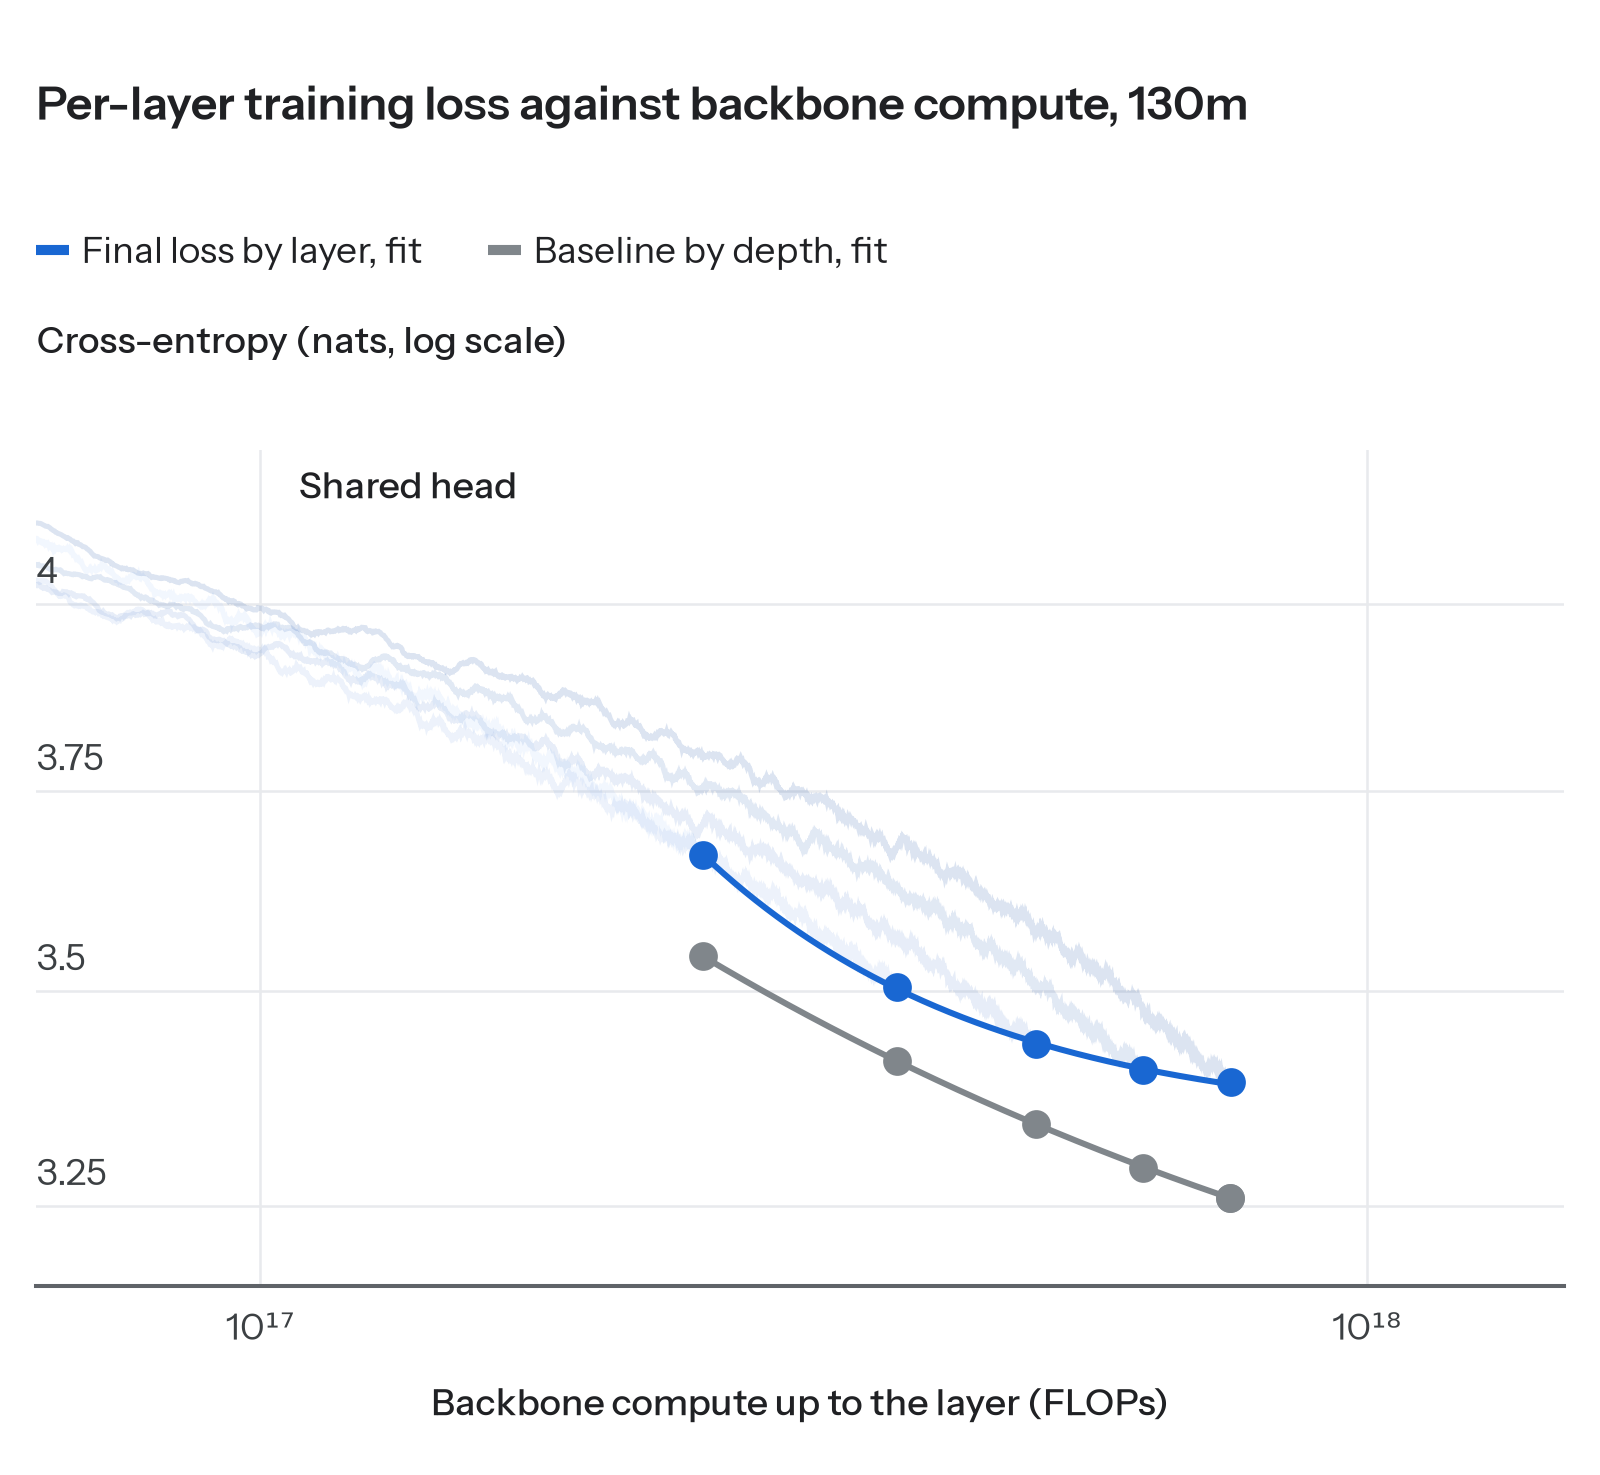
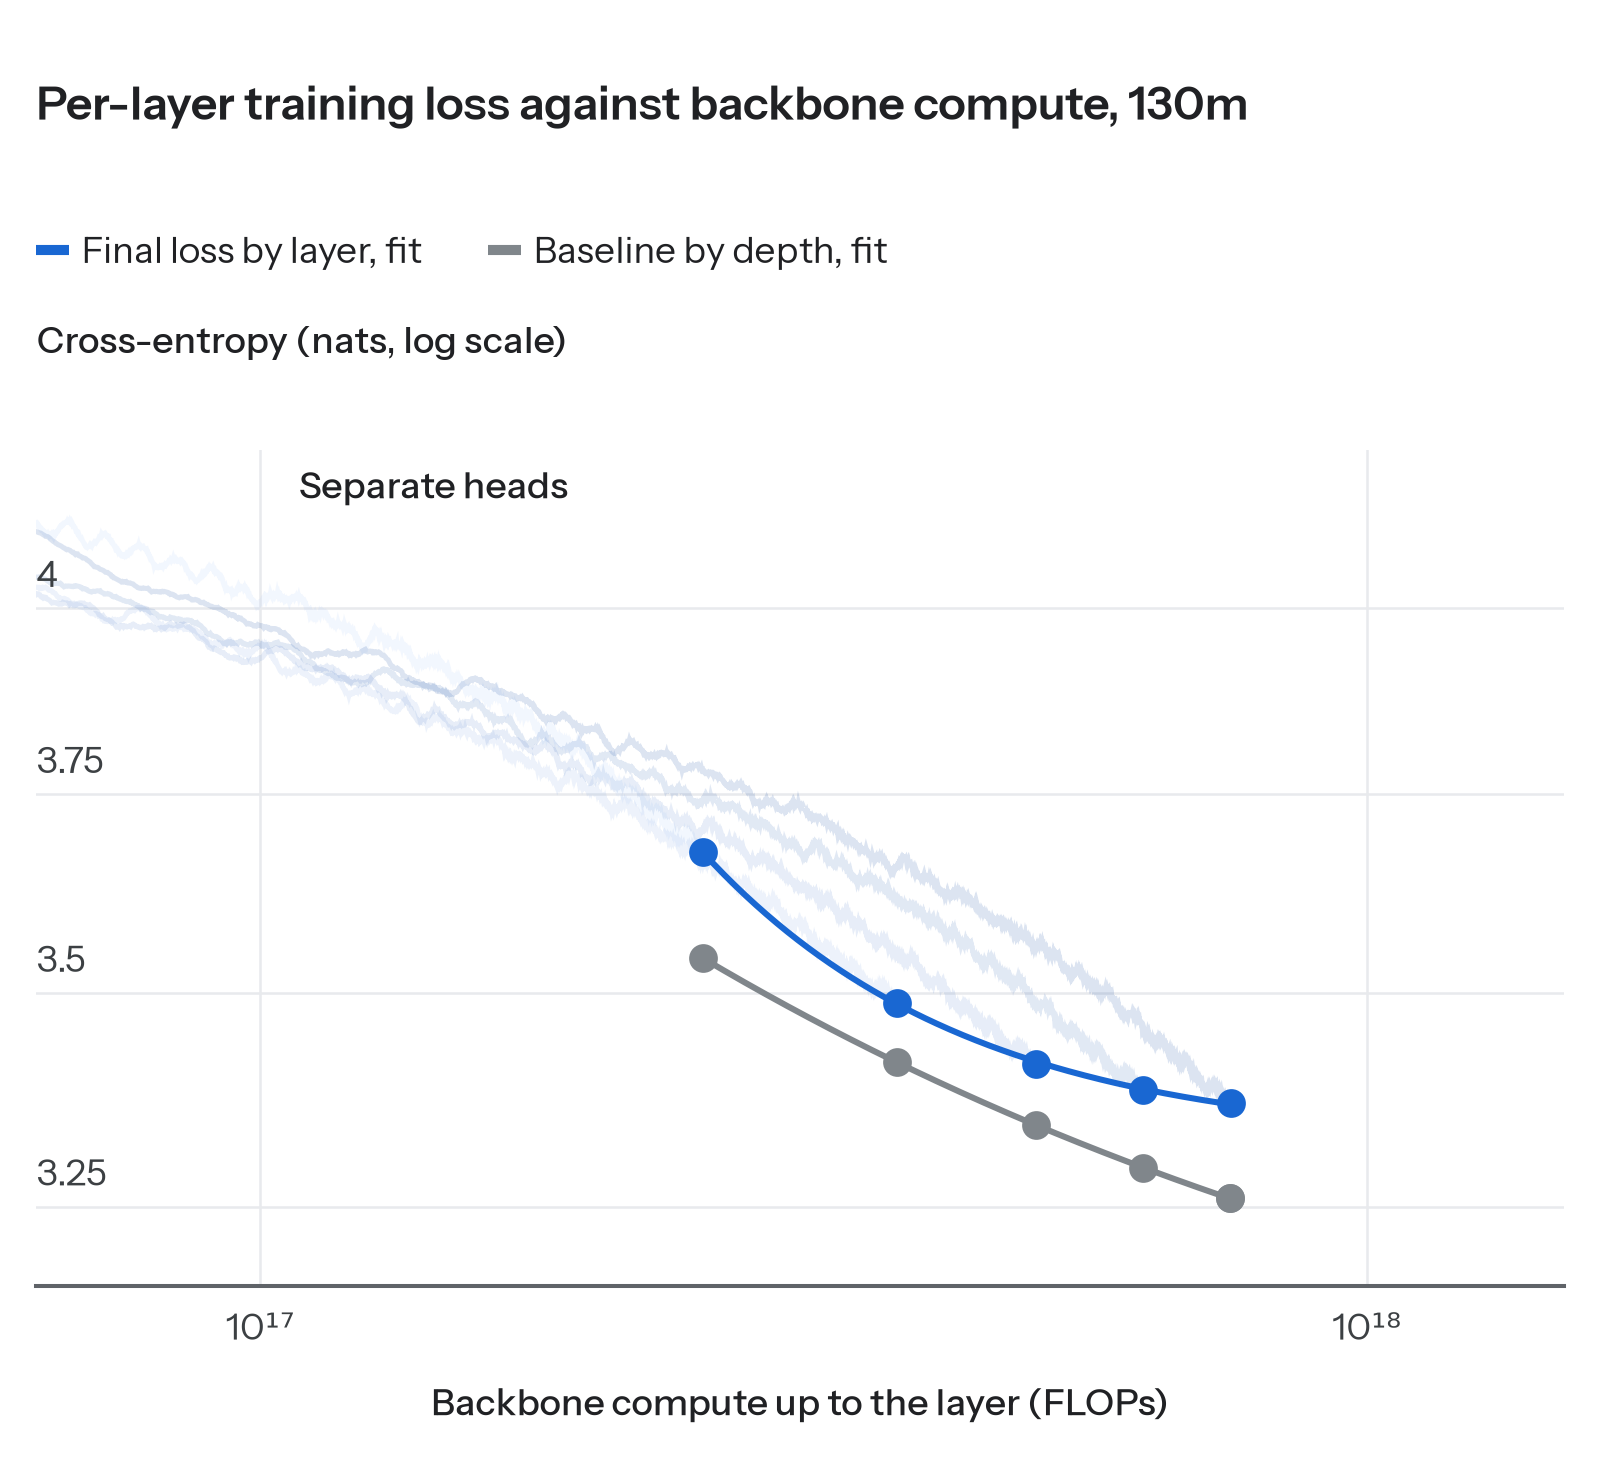
pls blog: figures follow 独立头 (separate heads); one three-head comparison; 300m separate-heads run queued (14940604)
Claude-Session: https://claude.ai/code/session_01KxM9p6GN3LaEp4FYv1D79m

diff --git a/docs/della/pls_archive/blog/layer_probe_300m_progress.py b/docs/della/pls_archive/blog/layer_probe_300m_progress.py
@@ -1,0 +1,59 @@
+"""Per-layer training loss against backbone compute, 300m, at the latest step of the running 只训独立头 run (in progress).
+Shared head = readouts L1..L11 of muonh-qwen3-300m-della4xh100-pls1 (flops.npz); probe = readouts L1..L11 of
+-pls1-sep-bbfrozen (W&B, live); baseline = train/loss of muonh-qwen3-300m-della4xh100. All three are the mean over the
+same 100-step window ending at the probe run's latest logged step. Backbone compute of readout k: 3*(k+1)/12*F_backbone
+per token times tokens so far (embedding and LM head not counted). Shared head: fitted L = E + A (C/1e18)^-alpha;
+probe: monotone PCHIP interpolation in log-log, not a fit. Output: layer_probe_300m_progress.*"""
+import json
+from pathlib import Path
+import matplotlib.ticker
+import numpy as np
+import wandb
+from scipy.interpolate import PchipInterpolator
+from scipy.optimize import curve_fit
+from style import *
+HERE = Path(__file__).resolve().parent
+TOK, V, L = 128 * 4096, 128256, 12
+D = dict(np.load(HERE / "flops.npz"))
+F = D["300-base/gflops"][-1] * 1e9 / (D["300-base/step"][-1] * TOK) / 3 - 2 * 768 * V
+api = wandb.Api(timeout=300)
+keys = [f"train/pls/L{k}" for k in range(L)]
+r = [x for x in api.run("reself/marin-della/muonh-qwen3-300m-della4xh100-pls1-sep-bbfrozen").scan_history(keys=["_step", *keys], page_size=5000)]
+ps = np.array([x["_step"] for x in r]); pce = np.array([[x[k] for k in keys] for x in r])
+now = int(ps.max()); lo = now - 99
+win = lambda s: (s >= lo) & (s <= now)
+probe = pce[win(ps)].mean(0)[1:]
+shared = D["300-shared/ce"][win(D["300-shared/step"])].mean(0)[1:]
+base = D["300-base/ce"][win(D["300-base/step"])].mean()
+x = np.array([3 * (k + 1) / L * F * (now + 1) * TOK for k in range(1, L)])
+print("step", now, "\nprobe ", probe.round(3), "\nshared", shared.round(3), "\nbaseline %.3f" % base)
+apply_style()
+SHARED, PROBE, BASE = tone('blue', 700), tone('red', 600), GREY_600
+SUP = str.maketrans("0123456789-", "⁰¹²³⁴⁵⁶⁷⁸⁹⁻")
+fig, axes = canvas(rows=1, cols=1, width=WIDTH_POST, panel_height=2.3,
+                   title=f'Per-layer training loss at step {now} of 11,444, 300m (draft)',
+                   legend=[('Shared head, fit', SHARED), ('Probe of the baseline', PROBE), ('Baseline', BASE, 'dot')],
+                   quantity='Cross-entropy (nats, log scale)', xlabel='Backbone compute up to the layer (FLOPs)',
+                   title_pt=9.2, tick_pt=TEXT_PT, note_pt=TICK_PT, side=0.10)
+ax = axes.flat[0]
+g = np.geomspace(x.min(), x.max(), 200)
+law = lambda c, E, A, a: E + A * (c / 1e18) ** (-a)
+p, _ = curve_fit(law, x, shared, p0=(shared.min() - 0.3, 0.3, 0.5), bounds=([0, 0, 0], [shared.min(), 10, 5]), maxfev=20000)
+print("shared fit", np.round(p, 3), "max |resid| %.4f" % np.abs(law(x, *p) - shared).max())
+ax.plot(g, law(g, *p), color=SHARED, lw=1.2, zorder=4)
+ax.scatter(x, shared, s=22, color=SHARED, zorder=6)
+pch = PchipInterpolator(np.log(x), np.log(probe))
+ax.plot(g, np.exp(pch(np.log(g))), color=PROBE, lw=1.2, zorder=4)
+ax.scatter(x, probe, s=22, color=PROBE, zorder=6)
+ax.scatter([x[-1]], [base], s=22, color=BASE, zorder=5)
+ax.set_xscale('log'); ax.set_yscale('log')
+for a in (ax.xaxis, ax.yaxis):
+    a.set_minor_locator(matplotlib.ticker.NullLocator())
+ally = np.r_[shared, probe, base]
+xmin, xmax = x.min() / 4, x.max() * 2
+ylo, yhi = 0.97 * ally.min(), ally.max() * 1.15
+xt = [v for v in (1e16, 1e17, 1e18, 1e19) if xmin <= v <= xmax]
+ax.set_xticks(xt, [f'10{str(int(np.log10(v))).translate(SUP)}' for v in xt])
+ax.set_xlim(xmin, xmax); ax.set_ylim(ylo, yhi)
+y_values(ax, [v for v in (3.25, 3.5, 3.75, 4, 4.5, 5, 5.5) if ylo <= v <= yhi / 1.05], '{:g}')
+save(fig, HERE / 'layer_probe_300m_progress')

diff --git a/docs/della/pls_archive/blog/layer_probe.py b/docs/della/pls_archive/blog/layer_probe.py
@@ -1,12 +1,13 @@
 """Final training loss by layer against backbone compute, 130m, three ways (log-log):
-  shared head  - readouts L1..L5 of the shared-head pls run (muonh-qwen3-130m-della4xh100-pls1), every layer trained to predict;
-  probes       - readouts L1..L5 of the 只训独立头 run (-pls1-sep-bbfrozen): separate heads on a backbone detached from
+  separate heads - readouts L1..L5 of the 独立头 pls run (muonh-qwen3-130m-della4xh100-pls1-sep): one head per layer,
+                 every layer trained to predict, the backbone gets each head's gradient;
+  probes       - readouts L1..L5 of the 只训独立头 run (-pls1-sep-bbfrozen): the same separate heads on a backbone detached from
                  their loss, so the backbone trains exactly as the baseline (its L5 3.257 vs baseline 3.260) and the heads
                  only read how well each layer of the plain model predicts the next token;
   baseline by depth - plain models with 2..5 layers (-d2..-d5, same width, data and schedule) and the 6-layer baseline.
 Readout k of the 6-layer model and the plain model with k+1 layers share an x: backbone compute 3*(k+1)/6*F_backbone per
 token (embedding and LM head not counted; the d-layer controls' logged FLOPs minus the head equal d/6 of the baseline's).
-Final value = mean of the last 50 logged steps. Curves: shared head and baseline by depth, fitted L = E + A (C/1e18)^-alpha;
+Final value = mean of the last 50 logged steps. Curves: separate heads and baseline by depth, fitted L = E + A (C/1e18)^-alpha;
 probes, which no such law fits (residuals to 0.14), a monotone PCHIP interpolation in log-log, not a fit.
 Sources: bbfrozen.npz (fetch_bbfrozen.py), depth.json (fetch_depth.py), baselines.json (fetch_baselines.py).
 Output: layer_probe_130m.*"""
@@ -24,7 +25,7 @@ DEPTH = json.load(open(HERE / "depth.json"))
 Z = np.load(HERE / "bbfrozen.npz")
 Fb = B["backbone_flops"]
 x = np.array([(k + 1) / 6 * Fb for k in range(1, 6)])
-shared = Z["-pls1/final"][1:]
+shared = Z["-pls1-sep/final"][1:]   # separate heads (独立头)
 probe = Z["-pls1-sep-bbfrozen/final"][1:]
 plain = np.array([DEPTH[str(d)]["loss"] for d in range(2, 6)] + [B["loss"]])
 SHARED, PROBE, PLAIN = tone('blue', 700), tone('red', 600), GREY_600
@@ -33,7 +34,7 @@ law = lambda c, E, A, a: E + A * (c / 1e18) ** (-a)
 
 fig, axes = canvas(rows=1, cols=1, width=WIDTH_POST, panel_height=2.3,
                    title='Per-layer training loss against backbone compute, 130m',
-                   legend=[('Shared head, fit', SHARED), ('Probe of the baseline', PROBE), ('Baseline by depth, fit', PLAIN)],
+                   legend=[('Separate heads, fit', SHARED), ('Probe of the baseline', PROBE), ('Baseline by depth, fit', PLAIN)],
                    quantity='Cross-entropy (nats, log scale)', xlabel='Backbone compute up to the layer (FLOPs)',
                    title_pt=9.2, tick_pt=TEXT_PT, note_pt=TICK_PT, side=0.10)
 ax = axes.flat[0]
@@ -59,5 +60,5 @@ ax.set_xlim(xmin, xmax)
 ax.set_ylim(ylo, yhi)
 y_values(ax, [v for v in (3, 3.25, 3.5, 3.75, 4, 4.5, 5) if ylo <= v <= yhi / 1.05], '{:g}')
 save(fig, HERE / 'layer_probe_130m')
-print("shared", shared.round(3), "\nprobe ", probe.round(3), "\nplain ", plain.round(3))
-print("probe - plain", (probe - plain).round(3), "\nshared - plain", (shared - plain).round(3))
+print("separate", shared.round(3), "\nprobe ", probe.round(3), "\nplain ", plain.round(3))
+print("probe - plain", (probe - plain).round(3), "\nseparate - plain", (shared - plain).round(3))

diff --git a/docs/della/pls_archive/blog/heads_compare.py b/docs/della/pls_archive/blog/heads_compare.py
@@ -1,0 +1,49 @@
+"""Final training loss by layer against backbone compute for the three head types, 130m (log-log): shared head
+(muonh-qwen3-130m-della4xh100-pls1), read-only shared head (-pls1-dh, the head gets no gradient from the aux losses),
+separate heads (-pls1-sep, one head per layer); and the plain models with 2..5 layers (-d2..-d5) plus the 6-layer baseline.
+Readout k of the 6-layer model sits at backbone compute 3*(k+1)/6*F_backbone per token (embedding and LM head not counted),
+the d-layer plain model at d/6 of the baseline's. Final value = mean of the last 50 logged steps; readouts L1..L5.
+Each series has a fitted L = E + A (C/1e18)^-alpha. Sources: bbfrozen.npz (fetch_bbfrozen.py), depth.json (fetch_depth.py),
+baselines.json (fetch_baselines.py). Output: heads_compare_130m.*"""
+import json
+from pathlib import Path
+import matplotlib.ticker
+import numpy as np
+from scipy.optimize import curve_fit
+from style import *
+HERE = Path(__file__).resolve().parent
+apply_style()
+B = json.load(open(HERE / "baselines.json"))["130m"]
+DEPTH = json.load(open(HERE / "depth.json"))
+Z = np.load(HERE / "bbfrozen.npz")
+x = np.array([(k + 1) / 6 * B["backbone_flops"] for k in range(1, 6)])
+plain = np.array([DEPTH[str(d)]["loss"] for d in range(2, 6)] + [B["loss"]])
+series = [('Separate', Z["-pls1-sep/final"][1:], tone('blue', 700)),
+          ('Shared', Z["-pls1/final"][1:], tone('green', 600)),
+          ('Read-only head', Z["-pls1-dh/final"][1:], tone('purple', 600)),
+          ('Baseline', plain, GREY_600)]
+SUP = str.maketrans("0123456789-", "⁰¹²³⁴⁵⁶⁷⁸⁹⁻")
+law = lambda c, E, A, a: E + A * (c / 1e18) ** (-a)
+fig, axes = canvas(rows=1, cols=1, width=WIDTH_POST, panel_height=2.3,
+                   title='Final training loss by layer and head type, 130m',
+                   legend=[(n, c) for n, _, c in series],
+                   quantity='Cross-entropy (nats, log scale)', xlabel='Backbone compute up to the layer (FLOPs)',
+                   title_pt=9.2, tick_pt=TEXT_PT, note_pt=TICK_PT, side=0.10)
+ax = axes.flat[0]
+g = np.geomspace(x.min(), x.max(), 200)
+for n, y, c in series:
+    p, _ = curve_fit(law, x, y, p0=(y.min() - 0.3, 0.3, 0.5), bounds=([0, 0, 0], [y.min(), 10, 5]), maxfev=20000)
+    ax.plot(g, law(g, *p), color=c, lw=1.2, zorder=4)
+    ax.scatter(x, y, s=22, color=c, zorder=6)
+    print(f"{n:22s} {np.round(y, 3)} minus plain {np.round(y - plain, 3)} fit max|resid| {np.abs(law(x, *p) - y).max():.4f}")
+ax.set_xscale('log'); ax.set_yscale('log')
+for a in (ax.xaxis, ax.yaxis):
+    a.set_minor_locator(matplotlib.ticker.NullLocator())
+ally = np.concatenate([y for _, y, _ in series])
+xmin, xmax = x.min() / 4, x.max() * 2
+ylo, yhi = 0.97 * ally.min(), ally.max() * 1.15
+xt = [v for v in (1e16, 1e17, 1e18, 1e19) if xmin <= v <= xmax]
+ax.set_xticks(xt, [f'10{str(int(np.log10(v))).translate(SUP)}' for v in xt])
+ax.set_xlim(xmin, xmax); ax.set_ylim(ylo, yhi)
+y_values(ax, [v for v in (3.25, 3.5, 3.75, 4) if ylo <= v <= yhi / 1.05], '{:g}')
+save(fig, HERE / 'heads_compare_130m')

diff --git a/docs/della/pls_archive/blog/layer_backbone.py b/docs/della/pls_archive/blog/layer_backbone.py
@@ -1,4 +1,4 @@
-"""Per-layer training loss of the shared-head pls run against backbone compute, with the baseline's final points at
+"""Per-layer training loss of a pls run (130m: separate heads, 独立头; the blog follows that arm) against backbone compute, with the baseline's final points at
 four sizes, log-log. One figure per pls size (130m: readouts L1-L5; 300m: final points of L1-L11, curves of L1, L3, ..., L11; L0 left out).
 
 Readout k of an L-layer pls model: 3 * (k+1)/L * F_backbone FLOPs per token, F_backbone = the same-size baseline's
@@ -33,7 +33,7 @@ def smooth(x, y, w=50):
     return x[w - 1:], np.convolve(y, k, mode="valid")
 
 
-def figure(size, L, hidden, curves=None, controls=None):
+def figure(size, L, hidden, curves=None, controls=None, arm='shared', label='Shared head'):
     F = D[f"{size}-base/gflops"][-1] * 1e9 / (D[f"{size}-base/step"][-1] * TOK) / 3 - 2 * hidden * V
     fig, axes = canvas(rows=1, cols=1, width=WIDTH_POST, panel_height=2.3,
                        title=f'Per-layer training loss against backbone compute, {size}m',
@@ -41,7 +41,7 @@ def figure(size, L, hidden, curves=None, controls=None):
                        quantity='Cross-entropy (nats, log scale)', xlabel='Backbone compute up to the layer (FLOPs)',
                        title_pt=9.2, tick_pt=TEXT_PT, note_pt=TICK_PT, side=0.10)
     ax = axes.flat[0]
-    s, ce = D[f"{size}-shared/step"], D[f"{size}-shared/ce"]
+    s, ce = D[f"{size}-{arm}/step"], D[f"{size}-{arm}/ce"]
     m = s >= 100
     ends = []
     for k in range(1, L):
@@ -81,11 +81,12 @@ def figure(size, L, hidden, curves=None, controls=None):
     ax.set_xlim(xmin, xmax)
     ax.set_ylim(ylo, yhi)
     y_values(ax, [v for v in (2.75, 3, 3.25, 3.5, 3.75, 4, 4.5, 5) if ylo <= v <= yhi / 1.05], '{:g}')  # no value right under the top edge, where the panel name sits
-    panel_label(ax, 'Shared head', x=xt[0] if len(xt) == 1 else xt[-2])
+    panel_label(ax, label, x=xt[0] if len(xt) == 1 else xt[-2])
     save(fig, HERE / f'layer_backbone_{size}m')
     print(size, "final by layer", [round(e[1], 3) for e in ends])
 
 
 DEPTH = json.load(open(HERE / "depth.json"))
-figure("130", 6, 512, controls=[(d / 6 * B["130m"]["backbone_flops"], DEPTH[str(d)]["loss"]) for d in range(2, 6)])
-figure("300", 12, 768, curves={1, 3, 5, 7, 9, 11})
+figure("130", 6, 512, arm="own", label="Separate heads", controls=[(d / 6 * B["130m"]["backbone_flops"], DEPTH[str(d)]["loss"]) for d in range(2, 6)])
+# 300m: no separate-heads run yet (job 14940604 queued 2026-10-03); the shared-head 300m figure is retired
+# figure("300", 12, 768, curves={1, 3, 5, 7, 9, 11})

diff --git a/docs/della/pls_archive/blog/check_300m_bbfrozen.py b/docs/della/pls_archive/blog/check_300m_bbfrozen.py
@@ -1,0 +1,12 @@
+"""Health check: last-layer CE of the running 300m 只训独立头 run vs the 300m baseline's train/loss at the same steps."""
+import numpy as np, wandb
+api = wandb.Api(timeout=300)
+P = "reself/marin-della/muonh-qwen3-300m-della4xh100"
+keys = [f"train/pls/L{k}" for k in range(12)]
+r = [x for x in api.run(P + "-pls1-sep-bbfrozen").scan_history(keys=["_step", *keys], page_size=5000)]
+b = {x["_step"]: x["train/loss"] for x in api.run(P).scan_history(keys=["_step", "train/loss"], page_size=5000)}
+s = np.array([x["_step"] for x in r]); ce = np.array([[x[k] for k in keys] for x in r])
+for lo in (500, 1000, 2000, s.max() - 99):
+    m = (s >= lo) & (s < lo + 100)
+    base = np.mean([b[t] for t in s[m] if t in b])
+    print(f"steps {lo}-{lo+99}: L11 {ce[m, 11].mean():.4f} baseline {base:.4f} diff {ce[m, 11].mean() - base:+.4f}; L0..L11 {np.round(ce[m].mean(0), 2)}")
